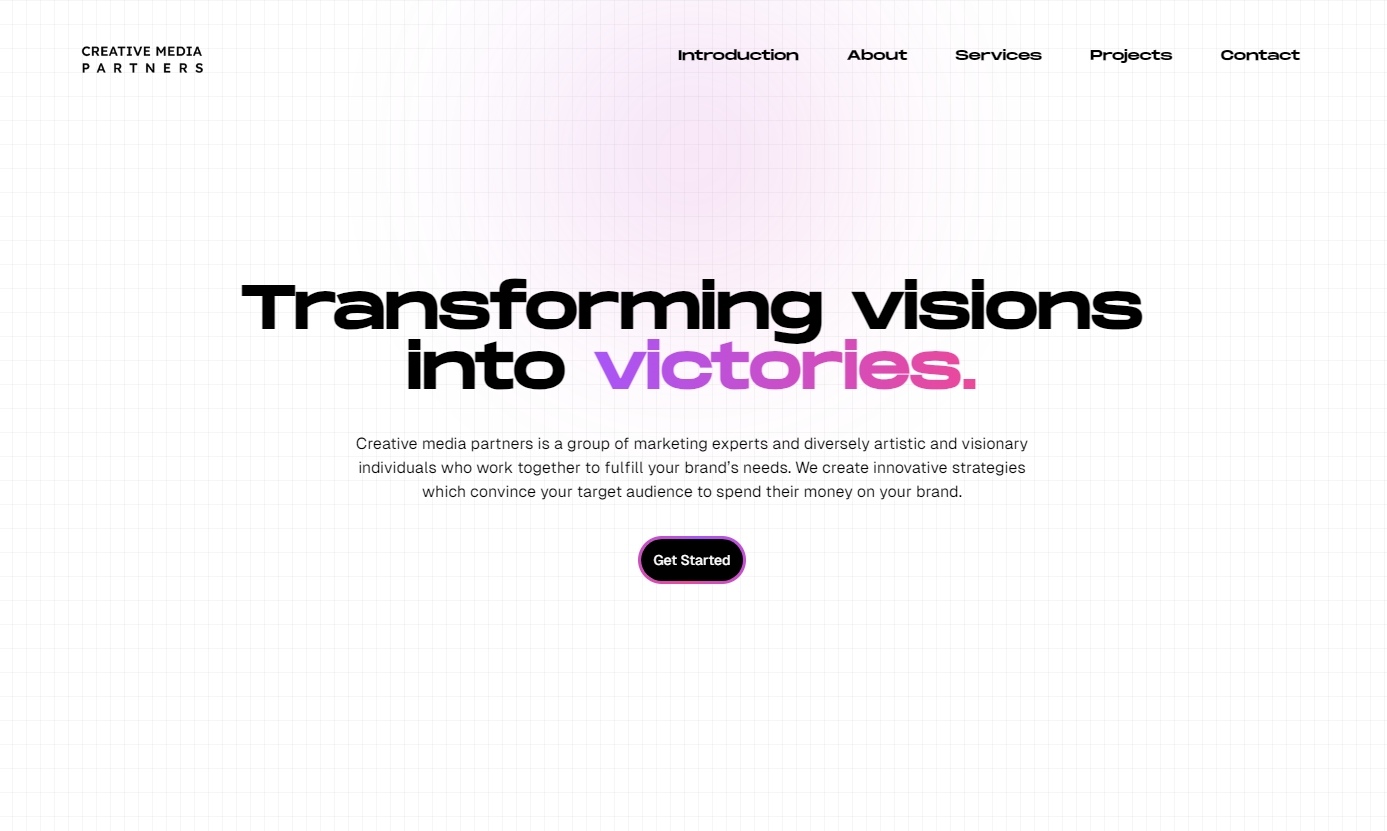
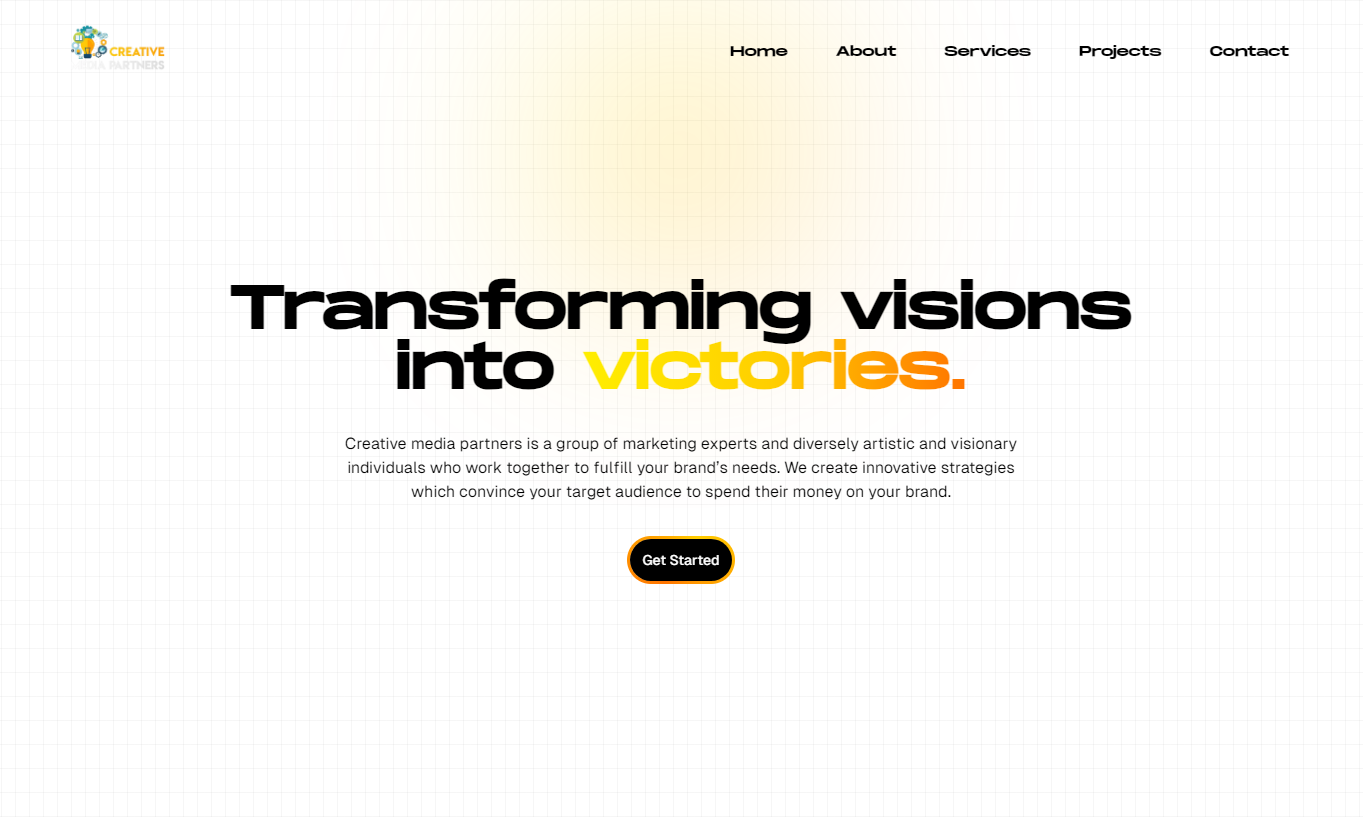
make theme changes

diff --git a/src/components/Hero.tsx b/src/components/Hero.tsx
@@ -8,7 +8,7 @@ import { motion } from "framer-motion";
 export const Hero = () => {
   return (
     <section id="home" className="w-full h-screen text-center relative">
-      <div className="absolute inset-0 bg-[linear-gradient(to_right,#80808020_1px,transparent_1px),linear-gradient(to_bottom,#80808020_1px,transparent_1px)] [background-size:24px_24px] [mask-image:radial-gradient(ellipse_80%_45%_at_50%_50%,#000_80%,transparent_100%)]"></div>
+      <div className="absolute inset-0 bg-[linear-gradient(to_right,#80808016_1px,transparent_1px),linear-gradient(to_bottom,#80808016_1px,transparent_1px)] [background-size:24px_24px] [mask-image:radial-gradient(ellipse_80%_45%_at_50%_50%,#000_80%,transparent_100%)]"></div>
       <div className="relative isolate px-6 pt-6 lg:px-8">
         <div
           className="absolute inset-x-0 -top-40 -z-10 transform-gpu overflow-hidden blur-3xl sm:-top-80"
@@ -30,14 +30,14 @@ export const Hero = () => {
       >
         <div className="z-10 mx-auto max-w-6xl py-32 sm:pt-48 sm:max-w-4xl lg:pt-64 xl:my-56 sm:mb-24">
           <div className="mb-8 flex justify-center"></div>
-          <h1 className="text-4xl sm:text-6xl py-2 md:py-4 bg-gradient-to-br from-black to-stone-500 bg-clip-text text-transparent tracking-tighter xl:text-7xl ">
+          <h1 className="text-5xl sm:text-6xl py-2 md:py-4 bg-gradient-to-br from-black to-stone-500 bg-clip-text text-transparent tracking-tighter xl:text-7xl ">
             Hi, I&#39;m Zain
           </h1>
-          <h1 className="text-4xl sm:text-6xl md:py-2 bg-gradient-to-br from-black to-stone-500 bg-clip-text text-transparent tracking-tighter xl:text-7xl">
+          <h1 className="text-5xl sm:text-6xl md:py-2 bg-gradient-to-br from-black to-stone-500 bg-clip-text text-transparent tracking-tighter xl:text-7xl">
             A Full Stack Web Developer and a Security Researcher
             <span className="linear-wipe">.</span>
           </h1>
-          <p className="py-4 text-black sm:max-w-[70%] m-auto text-base sm:text-xl">
+          <p className="py-4 text-black sm:max-w-[70%] m-auto text-sm sm:text-base">
             I’m focused on building responsive frontend web applications with a
             keen UI/UX interest, integrating backend technologies. I also like
             to play CTFs.
@@ -48,7 +48,7 @@ export const Hero = () => {
               target="_blank"
               rel="noreferrer"
             >
-              <div className="rounded-full shadow-lg shadow-gray-400 p-6 cursor-pointer hover:scale-110 ease-in duration-100 bg-[#ecf0f3]">
+              <div className="rounded-full shadow-lg shadow-gray-400 p-6 cursor-pointer hover:scale-110 ease-in duration-100 bg-white">
                 <FaLinkedinIn />
               </div>
             </Link>
@@ -57,12 +57,12 @@ export const Hero = () => {
               target="_blank"
               rel="noreferrer"
             >
-              <div className="rounded-full shadow-lg shadow-gray-400 p-6 cursor-pointer hover:scale-110 ease-in duration-100 bg-[#ecf0f3]">
+              <div className="rounded-full shadow-lg shadow-gray-400 p-6 cursor-pointer hover:scale-110 ease-in duration-100 bg-white">
                 <FaGithub />
               </div>
             </Link>
             <Link href="/#contact">
-              <div className="rounded-full shadow-lg shadow-gray-400 p-6 cursor-pointer hover:scale-110 ease-in duration-100 bg-[#ecf0f3]">
+              <div className="rounded-full shadow-lg shadow-gray-400 p-6 cursor-pointer hover:scale-110 ease-in duration-100 bg-white">
                 <AiOutlineMail />
               </div>
             </Link>

diff --git a/src/components/Experience.tsx b/src/components/Experience.tsx
@@ -46,9 +46,13 @@ const Experience = () => {
                   Full Stack Developer (Nov 2023 - Present)
                 </p>
 
-                <p>• Working on multiple development projects.</p>
-                <p>• Designed frontend and challenges for PCC CTF 2023.</p>
-                <p>
+                <p className="text-sm sm:text-base">
+                  • Working on multiple development projects.
+                </p>
+                <p className="text-sm sm:text-base">
+                  • Designed frontend and challenges for PCC CTF 2023.
+                </p>
+                <p className="text-sm sm:text-base">
                   • Learning and contributing to various aspects of web
                   applications and security engineering.
                 </p>
@@ -80,13 +84,19 @@ const Experience = () => {
                 <p className="text-base sm:text-lg font-bold">
                   {`Developer's`} Club Lead (Dec 2022- Dec 2023)
                 </p>
-                <p>• Designed and developed aucss official website.</p>
-                <p>• Organized and coordinated numerous technical events.</p>
+                <p className="text-sm sm:text-base">
+                  • Designed and developed aucss official website.
+                </p>
+                <p className="text-sm sm:text-base">
+                  • Organized and coordinated numerous technical events.
+                </p>
                 <p className="text-base sm:text-lg mt-2 font-bold">
                   Event Management Team Member (Dec 2021 - Dec 2022)
                 </p>
-                <p>• Usher for ICCWS 2022.</p>
-                <p>• Hosted welcome parties of multiple batches.</p>
+                <p className="text-sm sm:text-base">• Usher for ICCWS 2022.</p>
+                <p className="text-sm sm:text-base">
+                  • Hosted welcome parties of multiple batches.
+                </p>
               </div>
             </div>
           </div>
@@ -115,10 +125,12 @@ const Experience = () => {
                 <p className="text-base sm:text-lg font-bold">
                   Project Intern (May 2023 - Sep 2023)
                 </p>
-                <p>
+                <p className="text-sm sm:text-base">
                   • Development of my Final Year Project {`'DecentraConnect'`}.
                 </p>
-                <p>• Designed the UI/UX of DecentraConnect.</p>
+                <p className="text-sm sm:text-base">
+                  • Designed the UI/UX of DecentraConnect.
+                </p>
               </div>
             </div>
           </div>
@@ -147,8 +159,12 @@ const Experience = () => {
                 <p className="text-base sm:text-lg font-bold">
                   Web Development Intern (Feb 2023 - May 2023)
                 </p>
-                <p>• Completed multiple web development projects.</p>
-                <p>• Trained two junior interns.</p>
+                <p className="text-sm sm:text-base">
+                  • Completed multiple web development projects.
+                </p>
+                <p className="text-sm sm:text-base">
+                  • Trained two junior interns.
+                </p>
               </div>
             </div>
           </div>

diff --git a/src/components/Contact.tsx b/src/components/Contact.tsx
@@ -1,9 +1,7 @@
-'use client';
+"use client";
 import React from "react";
 import Image from "next/image";
 import logo from "../../public/zLogo.png";
-
-
 
 const Contact = () => {
   return (
@@ -14,7 +12,7 @@ const Contact = () => {
             <h2 className="text-4xl sm:text-5xl font-bold bg-gradient-to-br from-black to-stone-500 bg-clip-text text-transparent tracking-tighter">
               Get in touch
             </h2>
-            <p className="my-6 text-base sm:text-lg leading-8 text-gray-600 ">
+            <p className="my-6 text-sm sm:text-base leading-8 text-gray-900 ">
               {`I am available for freelance work. Contact me and we'll talk.`}
             </p>
             <br />
@@ -66,7 +64,7 @@ const Contact = () => {
                     id="first-name"
                     autoComplete="given-name"
                     required
-                    className="block w-full rounded-md border-0 px-3.5 py-2 text-gray-900 shadow-sm ring-1 ring-inset ring-gray-300 placeholder:text-gray-400 focus:ring-2 focus:ring-inset focus:ring-[#6dd5ed]  sm:text-sm sm:leading-6"
+                    className="block w-full rounded-md border-0 px-3.5 py-2 text-gray-900 shadow-sm ring-1 ring-inset ring-gray-300 placeholder:text-gray-400 focus:ring-2 focus:ring-inset focus:ring-[#6dd5ed] sm:text-sm sm:leading-6"
                   />
                 </div>
               </div>
@@ -162,7 +160,7 @@ const Contact = () => {
             <div className="mt-8 flex justify-center">
               <button
                 type="submit"
-                className="text-white block w-full bg-gradient-to-r from-[#1190CB] via-teal-500 to-[#6ed1b2]  hover:bg-gradient-to-br focus:ring-4 focus:outline-none focus:ring-cyan-300 dark:focus:ring-cyan-800 shadow-lg shadow-cyan-500/50 dark:shadow-lg dark:shadow-cyan-800/80 font-medium rounded-lg text-sm px-5 py-2.5 text-center mr-2 mb-2"
+                className="text-white block w-full bg-black hover:bg-black/70 focus:ring-4 focus:outline-none focus:ring-cyan-300 dark:focus:ring-cyan-800 shadow-lg shadow-gray-400  font-medium rounded-lg text-sm px-5 py-2.5 text-center mr-2 mb-2"
               >
                 {`Let's talk`}
               </button>

diff --git a/src/components/About.tsx b/src/components/About.tsx
@@ -16,7 +16,7 @@ const About = () => {
           <h2 className="py-4 text-4xl sm:text-5xl bg-gradient-to-br from-black to-stone-500 bg-clip-text text-transparent tracking-tighter">
             Who I Am
           </h2>
-          <div className="py-2 text-black text-sm sm:text-lg">
+          <div className="py-2 text-black text-sm sm:text-base">
             <p>
               I am a Cybersecurity undergraduate with a love for web
               development. I thrive on building dynamic and interactive web
@@ -25,10 +25,10 @@ const About = () => {
               backend technologies, including databases, I am continuously
               expanding my skill set to become a well-rounded developer.
             </p>
-            <p className="mt-4 font-bold text-sm sm:text-lg">
+            <p className="mt-4 font-extrabold text-sm sm:text-base">
               I specialize in:
             </p>
-            <div className="text-sm sm:text-lg text-gray-700">
+            <div className="text-sm sm:text-base text-gray-700">
               <p>• Front-End Development (React/Next JS)</p>
               <p>• Back-End Development (Node JS)</p>
               <p>• UI/UX Design (Figma/Spline 3D)</p>
@@ -39,7 +39,7 @@ const About = () => {
               <div className="grid gap-8 items-start sm:justify-start justify-center">
                 <div className="relative group">
                   <div className="absolute -inset-0.5 bg-gradient-to-r from-[#43cea2] to-[#1190CB] rounded-lg blur opacity-75 group-hover:opacity-100 transition duration-1000 group-hover:duration-200 animate-tilt"></div>
-                  <button className="relative px-7 py-4 bg-[#ecf0f3] rounded-lg leading-none flex divide-x divide-gray-600">
+                  <button className="relative px-7 py-4 bg-white rounded-lg leading-none flex divide-x divide-gray-600">
                     <span className="pl-6 text-black group-hover:text-gray-600 transition duration-75 text-sm sm:text-lg">
                       Check out some of my projects &rarr;
                     </span>

diff --git a/src/components/Education.tsx b/src/components/Education.tsx
@@ -46,7 +46,7 @@ const Education = () => {
           </h2>
         </div>
         <div className="grid gap-8 row-gap-5 md:row-gap-8 lg:grid-cols-3 py-10">
-          <div className="p-5 duration-300 transform bg-[#ecf0f3] border-2 border-dashed rounded-3xl shadow-sm border-[#43cea2] hover:-translate-y-2">
+          <div className="p-5 duration-300 transform bg-white border-2 border-dashed rounded-3xl shadow-sm border-[#43cea2] hover:-translate-y-2">
             <div className="flex items-center mb-2">
               <Image
                 className="flex items-center justify-center w-12 h-12 mr-2 rounded-full"
@@ -88,7 +88,7 @@ const Education = () => {
               </svg>
             </p>
           </div>
-          <div className="p-5 duration-300 transform bg-[#ecf0f3] border-2 border-dashed rounded-3xl shadow-sm border-[#1190CB]  hover:-translate-y-2">
+          <div className="p-5 duration-300 transform bg-white border-2 border-dashed rounded-3xl shadow-sm border-[#1190CB]  hover:-translate-y-2">
             <div className="flex items-center mb-2">
               <Image
                 className="flex items-center justify-center w-12 h-12 mr-2 rounded-full"
@@ -126,7 +126,7 @@ const Education = () => {
               </svg>
             </p>
           </div>
-          <div className="relative p-5 duration-300 transform bg-[#ecf0f3] border-2 rounded-3xl shadow-sm border-[#1190CB] hover:-translate-y-2">
+          <div className="relative p-5 duration-300 transform bg-white border-2 rounded-3xl shadow-sm border-[#1190CB] hover:-translate-y-2">
             <div className="flex items-center mb-2">
               <Image
                 className="flex items-center justify-center w-12 h-12 mr-2 rounded-full"

diff --git a/src/app/creativemedia/page.tsx b/src/app/creativemedia/page.tsx
@@ -28,7 +28,7 @@ const page = () => {
             Project
           </p>
           <h2 className="py-6 sm:text-4xl tracking-tighter">Overview</h2>
-          <p className="text-center sm:text-lg">
+          <p className="text-center text-sm sm:text-base">
             {`This is a website created for Creative Media Partners 
               which is a group of marketing experts and diversely artistic
               and visionary individuals who work together to fulfill your brand’s needs.
@@ -41,6 +41,9 @@ const page = () => {
               media campaigns that drive results.`}
           </p>
           <div className="mt-10 flex justify-center">
+            <button className="text-black font-bold bg-gradient-to-r from-[#ffee00] via-[#ffce00] to-[#ff7400] hover:bg-gradient-to-br focus:ring-4 focus:outline-none focus:ring-blue-300 dark:focus:ring-blue-800 rounded-lg text-sm px-5 py-2.5 text-center mr-2 mb-2">
+              <Link href="https://creative-media-partners.vercel.app">Demo</Link>
+            </button>
             <button className="text-white bg-gray-800 hover:bg-gray-900 focus:outline-none focus:ring-4 focus:ring-gray-300 font-medium rounded-lg text-sm px-5 py-2.5 mr-2 mb-2 dark:bg-gray-800 dark:hover:bg-gray-700 dark:focus:ring-gray-700 dark:border-gray-700">
               <Link href="/#projects">
                 <p className="">Back</p>

diff --git a/src/app/decentraconnect/page.tsx b/src/app/decentraconnect/page.tsx
@@ -38,7 +38,7 @@ const page = () => {
             Project
           </p>
           <h2 className="py-6 sm:text-4xl tracking-tighter">Overview</h2>
-          <p className="text-center sm:text-lg">
+          <p className="text-center text-sm sm:text-base">
             This is a decentralized social media platform that utilizes IPFS for
             content storage. The frontend is built with Next JS and the backend
             is built with Express. MongoDB is used as a database for storing
@@ -55,7 +55,9 @@ const page = () => {
             </button>
           </div>
         </div>
-        <h2 className="text-center py-4 mt-16 sm:text-4xl tracking-tighter">Technologies</h2>
+        <h2 className="text-center py-4 mt-16 sm:text-4xl tracking-tighter">
+          Technologies
+        </h2>
         <div className="mx-auto mt-10 grid max-w-lg grid-cols-2 items-center gap-x-8 gap-y-10 sm:max-w-xl sm:grid-cols-5 sm:gap-x-10 lg:mx-0 lg:max-w-none lg:grid-cols-5 cursor-pointer">
           <div className="hover:scale-105 ease-in duration-100 flex flex-col items-center">
             <Image

diff --git a/src/app/decentra/page.tsx b/src/app/decentra/page.tsx
@@ -32,7 +32,7 @@ const page = () => {
             Design
           </p>
           <h2 className="py-6 sm:text-4xl tracking-tighter">Overview</h2>
-          <p className="text-center sm:text-lg">
+          <p className="text-center text-sm sm:text-base">
             This is a design created for a decentralized social media platform
             build on the Ethereum blockchain. The design was created using
             Figma.
@@ -50,7 +50,9 @@ const page = () => {
             </button>
           </div>
         </div>
-        <h2 className="text-center py-4 mt-16 sm:text-4xl tracking-tighter">More Snaps</h2>
+        <h2 className="text-center py-4 mt-16 sm:text-4xl tracking-tighter">
+          More Snaps
+        </h2>
         <div className="mx-auto mt-10 grid max-w-lg grid-cols-1 items-center gap-y-10 gap-8 sm:max-w-xl lg:grid-cols-3 lg:mx-0 lg:max-w-none cursor-pointer">
           <div className="hover:scale-105 ease-in duration-100 flex flex-col items-center rounded-xl shadow-xl shadow-gray-400">
             <Image

diff --git a/src/app/quickjourney/page.tsx b/src/app/quickjourney/page.tsx
@@ -28,7 +28,7 @@ const page = () => {
             Project
           </p>
           <h2 className="py-6 sm:text-4xl tracking-tighter">Overview</h2>
-          <p className="text-center sm:text-lg">
+          <p className="text-center text-sm sm:text-base">
             {`This is a website created for a travel agency named Quick Journey. Quick Journey is a travel agency that provides services for booking hotels, and transport.
             They also provide tour packages for different locations in Pakistan especially for religious tourism.`}
           </p>

diff --git a/src/app/bytebolt/page.tsx b/src/app/bytebolt/page.tsx
@@ -33,7 +33,7 @@ const page = () => {
           <h2 className="text-center py-6 sm:text-4xl tracking-tighter">
             Overview
           </h2>
-          <p className="text-center sm:text-lg">
+          <p className="text-center text-sm sm:text-base">
             This landing page was built for ByteBoltSec which is a startup that
             I am currently working in. The landing page was built using Next JS.
             Tailwind css was used for styling and Framer Motion was used for

diff --git a/src/app/ctf/page.tsx b/src/app/ctf/page.tsx
@@ -31,7 +31,7 @@ const page = () => {
             Project
           </p>
           <h2 className="py-6 tracking-tighter sm:text-4xl">Overview</h2>
-          <p className="text-center sm:text-lg">
+          <p className="text-center text-sm sm:text-base">
             This is a scoreboard for the on-site CTF competition that shows the
             top 10 teams and their scores. It also shows the latest challenges
             solved. There are two alerts, one for the first blood and the other

diff --git a/src/app/intelligen/page.tsx b/src/app/intelligen/page.tsx
@@ -41,7 +41,7 @@ const page = () => {
           <h2 className="text-center py-6 sm:text-4xl tracking-tighter">
             Overview
           </h2>
-          <p className="sm:text-lg">
+          <p className="text-sm sm:text-base">
             IntelliGen is an AI-powered Software as a Service (SaaS) platform
             designed to empower businesses and individuals with the creative
             potential of artificial intelligence. IntelliGen harnesses the
